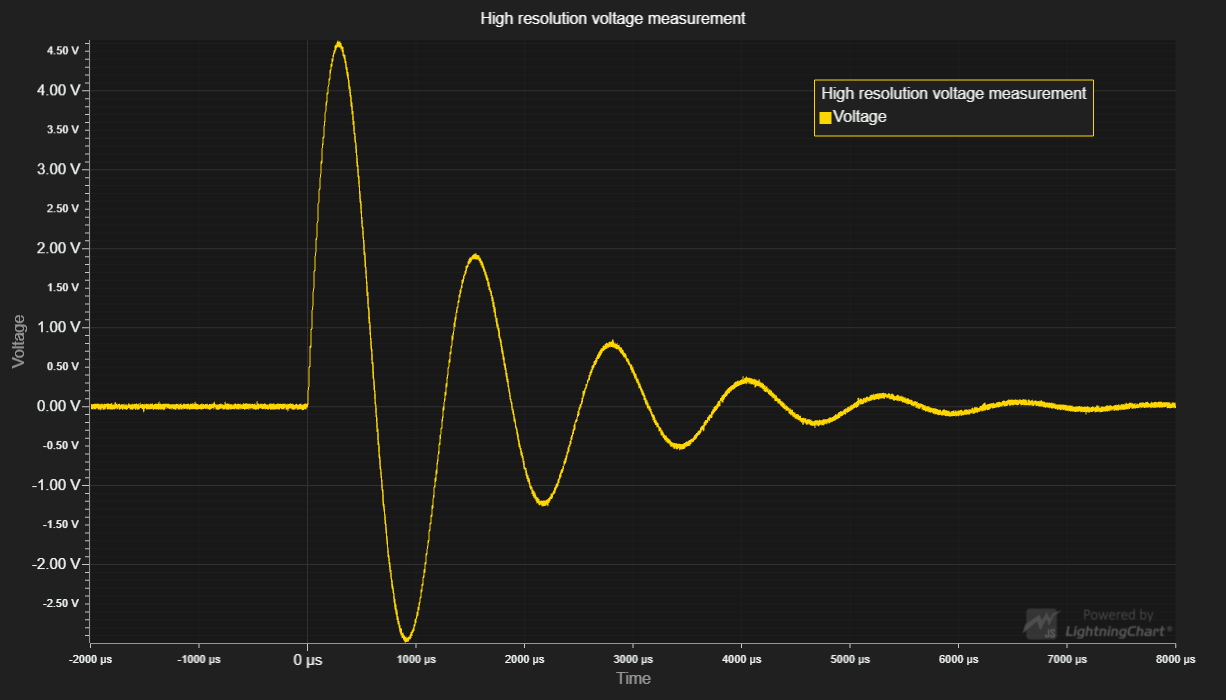
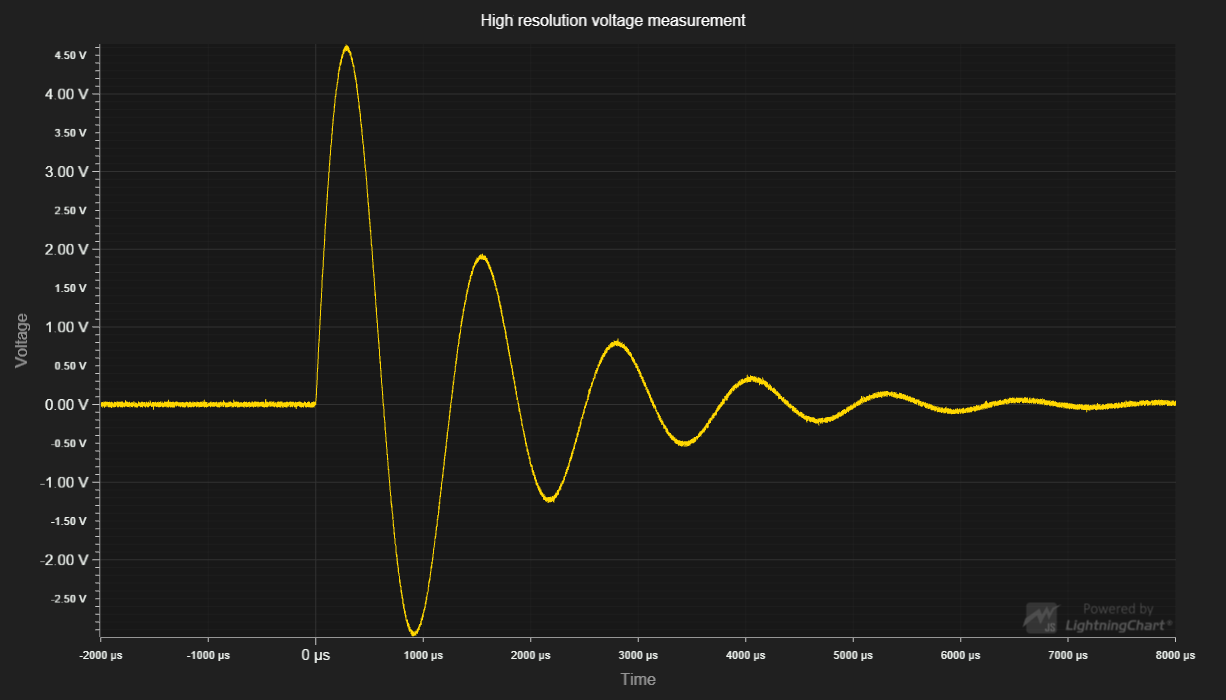
LCJS 3.0.0

diff --git a/src/index.js b/src/index.js
@@ -8,8 +8,6 @@ const lcjs = require('@arction/lcjs')
 const {
     lightningChart,
     AxisTickStrategies,
-    UIOrigins,
-    DataPatterns,
     Themes
 } = lcjs
 
@@ -22,8 +20,15 @@ const chart = lightningChart().ChartXY({
     })
     .setTitle('High resolution voltage measurement')
 
-// Create Line series.
-const lineSeries = chart.addLineSeries({ dataPattern: DataPatterns.horizontalProgressive })
+// Create line series optimized for regular progressive X data.
+const lineSeries = chart.addLineSeries({
+    dataPattern: {
+        // pattern: 'ProgressiveX' => Each consecutive data point has increased X coordinate.
+        pattern: 'ProgressiveX',
+        // regularProgressiveStep: true => The X step between each consecutive data point is regular (for example, always `1.0`).
+        regularProgressiveStep: true,
+    }
+})
     .setName('Voltage')
 
 // Axes can't properly scroll data with microseconds precision - define a factor to scale all X values with.
@@ -47,14 +52,6 @@ chart.getDefaultAxisY()
             voltage.toFixed( 2 ) + ' V'
         )
     )
-
-const legend = chart.addLegendBox()
-    .setOrigin(UIOrigins.RightTop)
-    .setPosition({ x: 90, y: 90 })
-    .setMargin({ left: 10, right: 10, top: 10, bottom: 10 })
-
-// Add Chart to LegendBox.
-legend.add(chart)
 
 const renderData = ( data ) => {
     // Add data.

diff --git a/README.md b/README.md
@@ -61,6 +61,7 @@ lineSeries.axisX
 * [XY cartesian chart]
 * [Line series]
 * [Numeric Axis tick strategy]
+* [Data patterns]
 
 
 ## Support
@@ -84,7 +85,8 @@ Direct developer email support can be purchased through a [Support Plan][4] or b
 © Arction Ltd 2009-2020. All rights reserved.
 
 
-[XY cartesian chart]: https://www.arction.com/lightningchart-js-api-documentation/v2.2.0/classes/chartxy.html
-[Line series]: https://www.arction.com/lightningchart-js-api-documentation/v2.2.0/classes/lineseries.html
-[Numeric Axis tick strategy]: https://www.arction.com/lightningchart-js-api-documentation/v2.2.0/globals.html#axistickstrategies.numeric
+[XY cartesian chart]: https://www.arction.com/lightningchart-js-api-documentation/v3.0.0/classes/chartxy.html
+[Line series]: https://www.arction.com/lightningchart-js-api-documentation/v3.0.0/classes/lineseries.html
+[Numeric Axis tick strategy]: https://www.arction.com/lightningchart-js-api-documentation/v3.0.0/globals.html#axistickstrategies.numeric
+[Data patterns]: https://www.arction.com/lightningchart-js-api-documentation/v3.0.0/interfaces/datapattern.html
 
